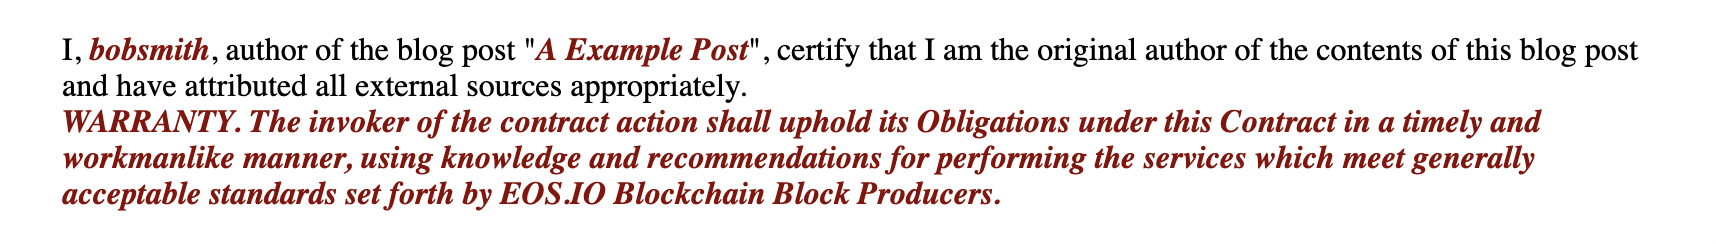
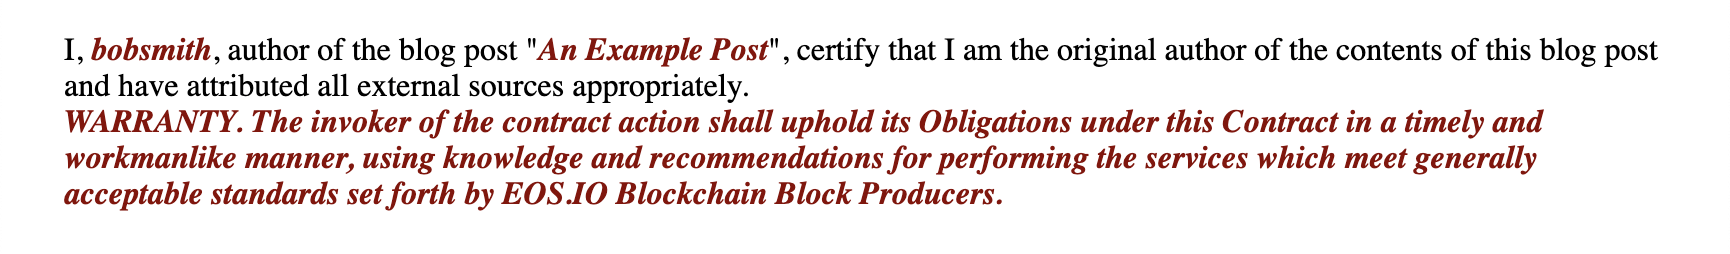
Small spelling fixes in README and rc.ts

Changed region(s): [[0.0309, 0.4303, 0.8957, 0.8607], [0.0309, 0.1434, 0.9575, 0.2869], [0.0309, 0.2869, 0.4324, 0.4303]]

diff --git a/src/bin/rc.ts b/src/bin/rc.ts
@@ -31,7 +31,7 @@ function parseArgs() {
       },
       'max-passes': {
         alias: 'm',
-        describe: 'Maxinum number of variable interpolation passes to perform',
+        describe: 'Maximum number of variable interpolation passes to perform',
         default: 3,
         type: 'number',
       }

diff --git a/README.md b/README.md
@@ -109,7 +109,7 @@ Styled HTML
   </head>
 
   <body>
-    I, <div class="variable data">bobsmith</div>, author of the blog post "<div class="variable data">A Example Post</div>", certify that I am the original author of the contents of this blog post and have attributed all external sources appropriately.<br />
+    I, <div class="variable data">bobsmith</div>, author of the blog post "<div class="variable data">An Example Post</div>", certify that I am the original author of the contents of this blog post and have attributed all external sources appropriately.<br />
     <div class="variable clauses">WARRANTY. The invoker of the contract action shall uphold its Obligations under this Contract in a timely and workmanlike manner, using knowledge and recommendations for performing the services which meet generally acceptable standards set forth by EOS.IO Blockchain Block Producers.</div><br />
   </body>
 </html>
